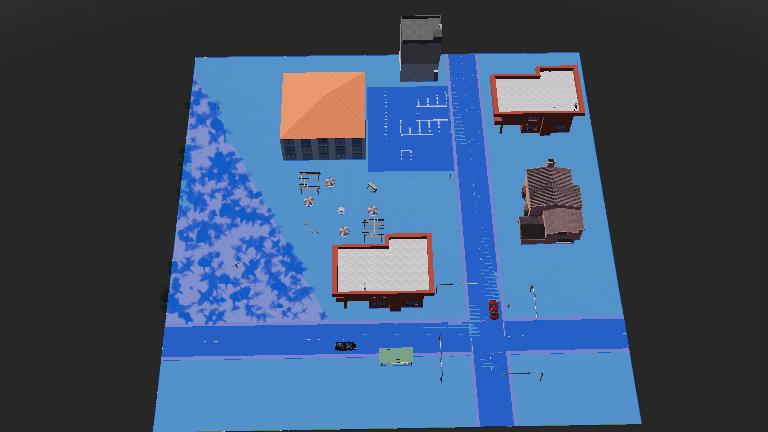
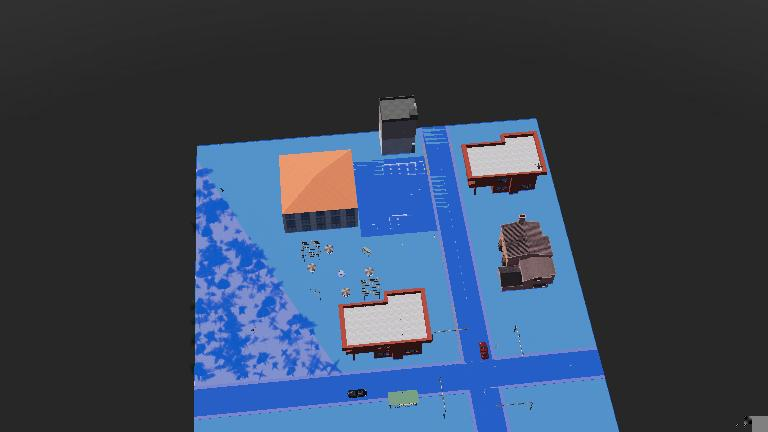
cleaning up

diff --git a/project/controllers/patrol_agent/patrol_agent.py b/project/controllers/patrol_agent/patrol_agent.py
@@ -233,26 +233,26 @@ class Mavic(Robot):
 
         return completion.choices[0].message["content"]
     
-    def extract_json_from_text(self, text):
-        """
-        Extracts and returns a valid JSON object (as a dict) from a string containing additional content.
-        """
+    # def extract_json_from_text(self, text):
+    #     """
+    #     Extracts and returns a valid JSON object (as a dict) from a string containing additional content.
+    #     """
 
-        print(text)
-        try:
-            # Use regex to find a JSON-like block in the text
-            match = re.search(r'\{[\s\S]*\}', text)
-            if match:
-                json_str = match.group(0)
-                # Convert to dict
-                return json.loads(json_str)
-            else:
-                raise ValueError("No JSON object found in the text.")
-        except json.JSONDecodeError as e:
-            print("Invalid JSON format:", e)
-        except Exception as e:
-            print("Error:", e)
-        return {'person_found': False, 'requires_assistance': False, 'assistance_instructions': False}
+    #     # print(text)
+    #     try:
+    #         # Use regex to find a JSON-like block in the text
+    #         match = re.search(r'\{[\s\S]*\}', text)
+    #         if match:
+    #             json_str = match.group(0)
+    #             # Convert to dict
+    #             return json.loads(json_str)
+    #         else:
+    #             raise ValueError("No JSON object found in the text.")
+    #     except json.JSONDecodeError as e:
+    #         print("Invalid JSON format:", e)
+    #     except Exception as e:
+    #         print("Error:", e)
+    #     return {'person_found': False, 'requires_assistance': False, 'assistance_instructions': False}
 
     def far_from_other_detections(self, new_detection, detections):
         if len(detections) == 0:

diff --git a/project/server.py b/project/server.py
@@ -280,7 +280,7 @@ def handle_client(conn, addr, waypoints):
                 with open(results_json_filepath, "w") as f:
                     json.dump(data, f, indent=4)
 
-                print(detection)
+                # print(detection)
                 # Assume detection includes drone state
                 # x_p, y_p = estimate_location(detection)
                 x = detection['est_x']
@@ -397,10 +397,10 @@ if __name__ == "__main__":
                     {'x': 0, 'y': 0, 'end': True}
                                                     ]
 
-    print(f"Waypoints created {x_dim} m x {y_dim} m \n {waypoints}")
+    # print(f"Waypoints created {x_dim} m x {y_dim} m \n {waypoints}")
 
     # waypoints = generate_waypoints(x_dim=x_path, y_dim=x_path, step=step)
-    print(f"Waypoints created {x_dim} m x {y_dim} m at every {step} meters")
+    # print(f"Waypoints created {x_dim} m x {y_dim} m at every {step} meters")
 
     test_world = "" 
 
@@ -490,7 +490,7 @@ if __name__ == "__main__":
                 goal = goal_queue.get(timeout=0.1)
                 goal_name = goal['name']
                 goal_pos = (goal['x'], goal['y'])
-                print(f'Planning path to {goal_name}: {goal_pos}')
+                # print(f'Planning path to {goal_name}: {goal_pos}')
                 ax.plot(goal_pos[0], goal_pos[1], 'or')
 
                 rrt = RRTStar(start, goal_pos, map_size, obstacles)
@@ -499,7 +499,7 @@ if __name__ == "__main__":
                 if path:
                     px, py = zip(*path)
                     ax.plot(px, py, 'r-', linewidth=2)
-                    print(f'Path draw to {goal_name}')
+                    # print(f'Path draw to {goal_name}')
                 else:
                     print(f'WARNING: No Path to {goal_name}')
 
